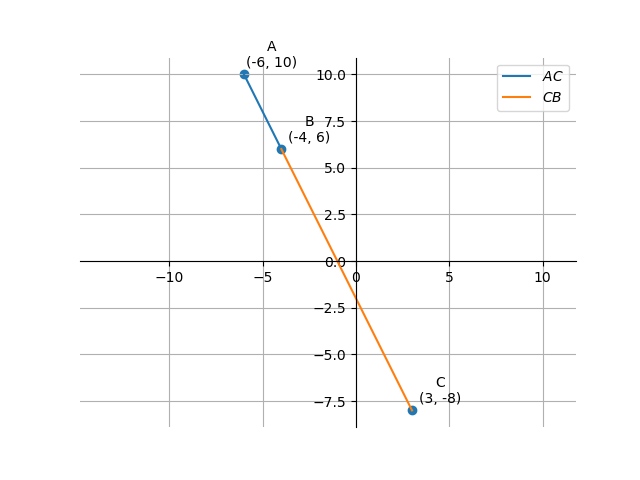
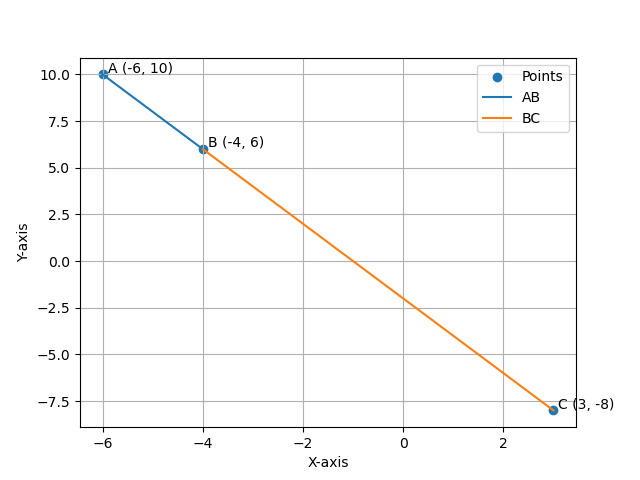
;

diff --git a/assignment2/codes/plot.py b/assignment2/codes/plot.py
@@ -1,0 +1,30 @@
+import matplotlib.pyplot as plt
+
+# Coordinates of the parallelogram
+points = [(-6, 10), (-4, 6), (3, -8)]
+
+# Unpack coordinates for plotting
+x_coords, y_coords = zip(*points)
+
+# Plot the points
+plt.scatter(x_coords, y_coords, label="Points")
+
+# Connect points to form the parallelogram
+plt.plot([points[0][0], points[1][0]], [points[0][1], points[1][1]], label="AB")
+plt.plot([points[1][0], points[2][0]], [points[1][1], points[2][1]], label="BC")
+
+# Add labels to points
+labels = ['A (-6, 10)', 'B (-4, 6)', 'C (3, -8)']
+for i, (x, y) in enumerate(points):
+    plt.text(x + 0.1, y + 0.1, labels[i])
+
+# Set labels and title
+plt.xlabel('X-axis')
+plt.ylabel('Y-axis')
+
+# Add legend
+plt.legend()
+
+# Show the plot
+plt.grid(True)
+plt.savefig("fig1.png")

diff --git a/assignment2/q1.tex b/assignment2/q1.tex
@@ -61,6 +61,7 @@
 \renewcommand{\thefigure}{\theenumi}
 \renewcommand{\thetable}{\theenumi}
 
+
 \textbf{Question}:\\
 
 Show that the points $\textbf{A}\brak{-6,10},\textbf{B}\brak{-4,6}$ and $\textbf{C}\brak{3,-8}$ are collinear and prove that $AB = \frac{2}{9}AC$.\\
